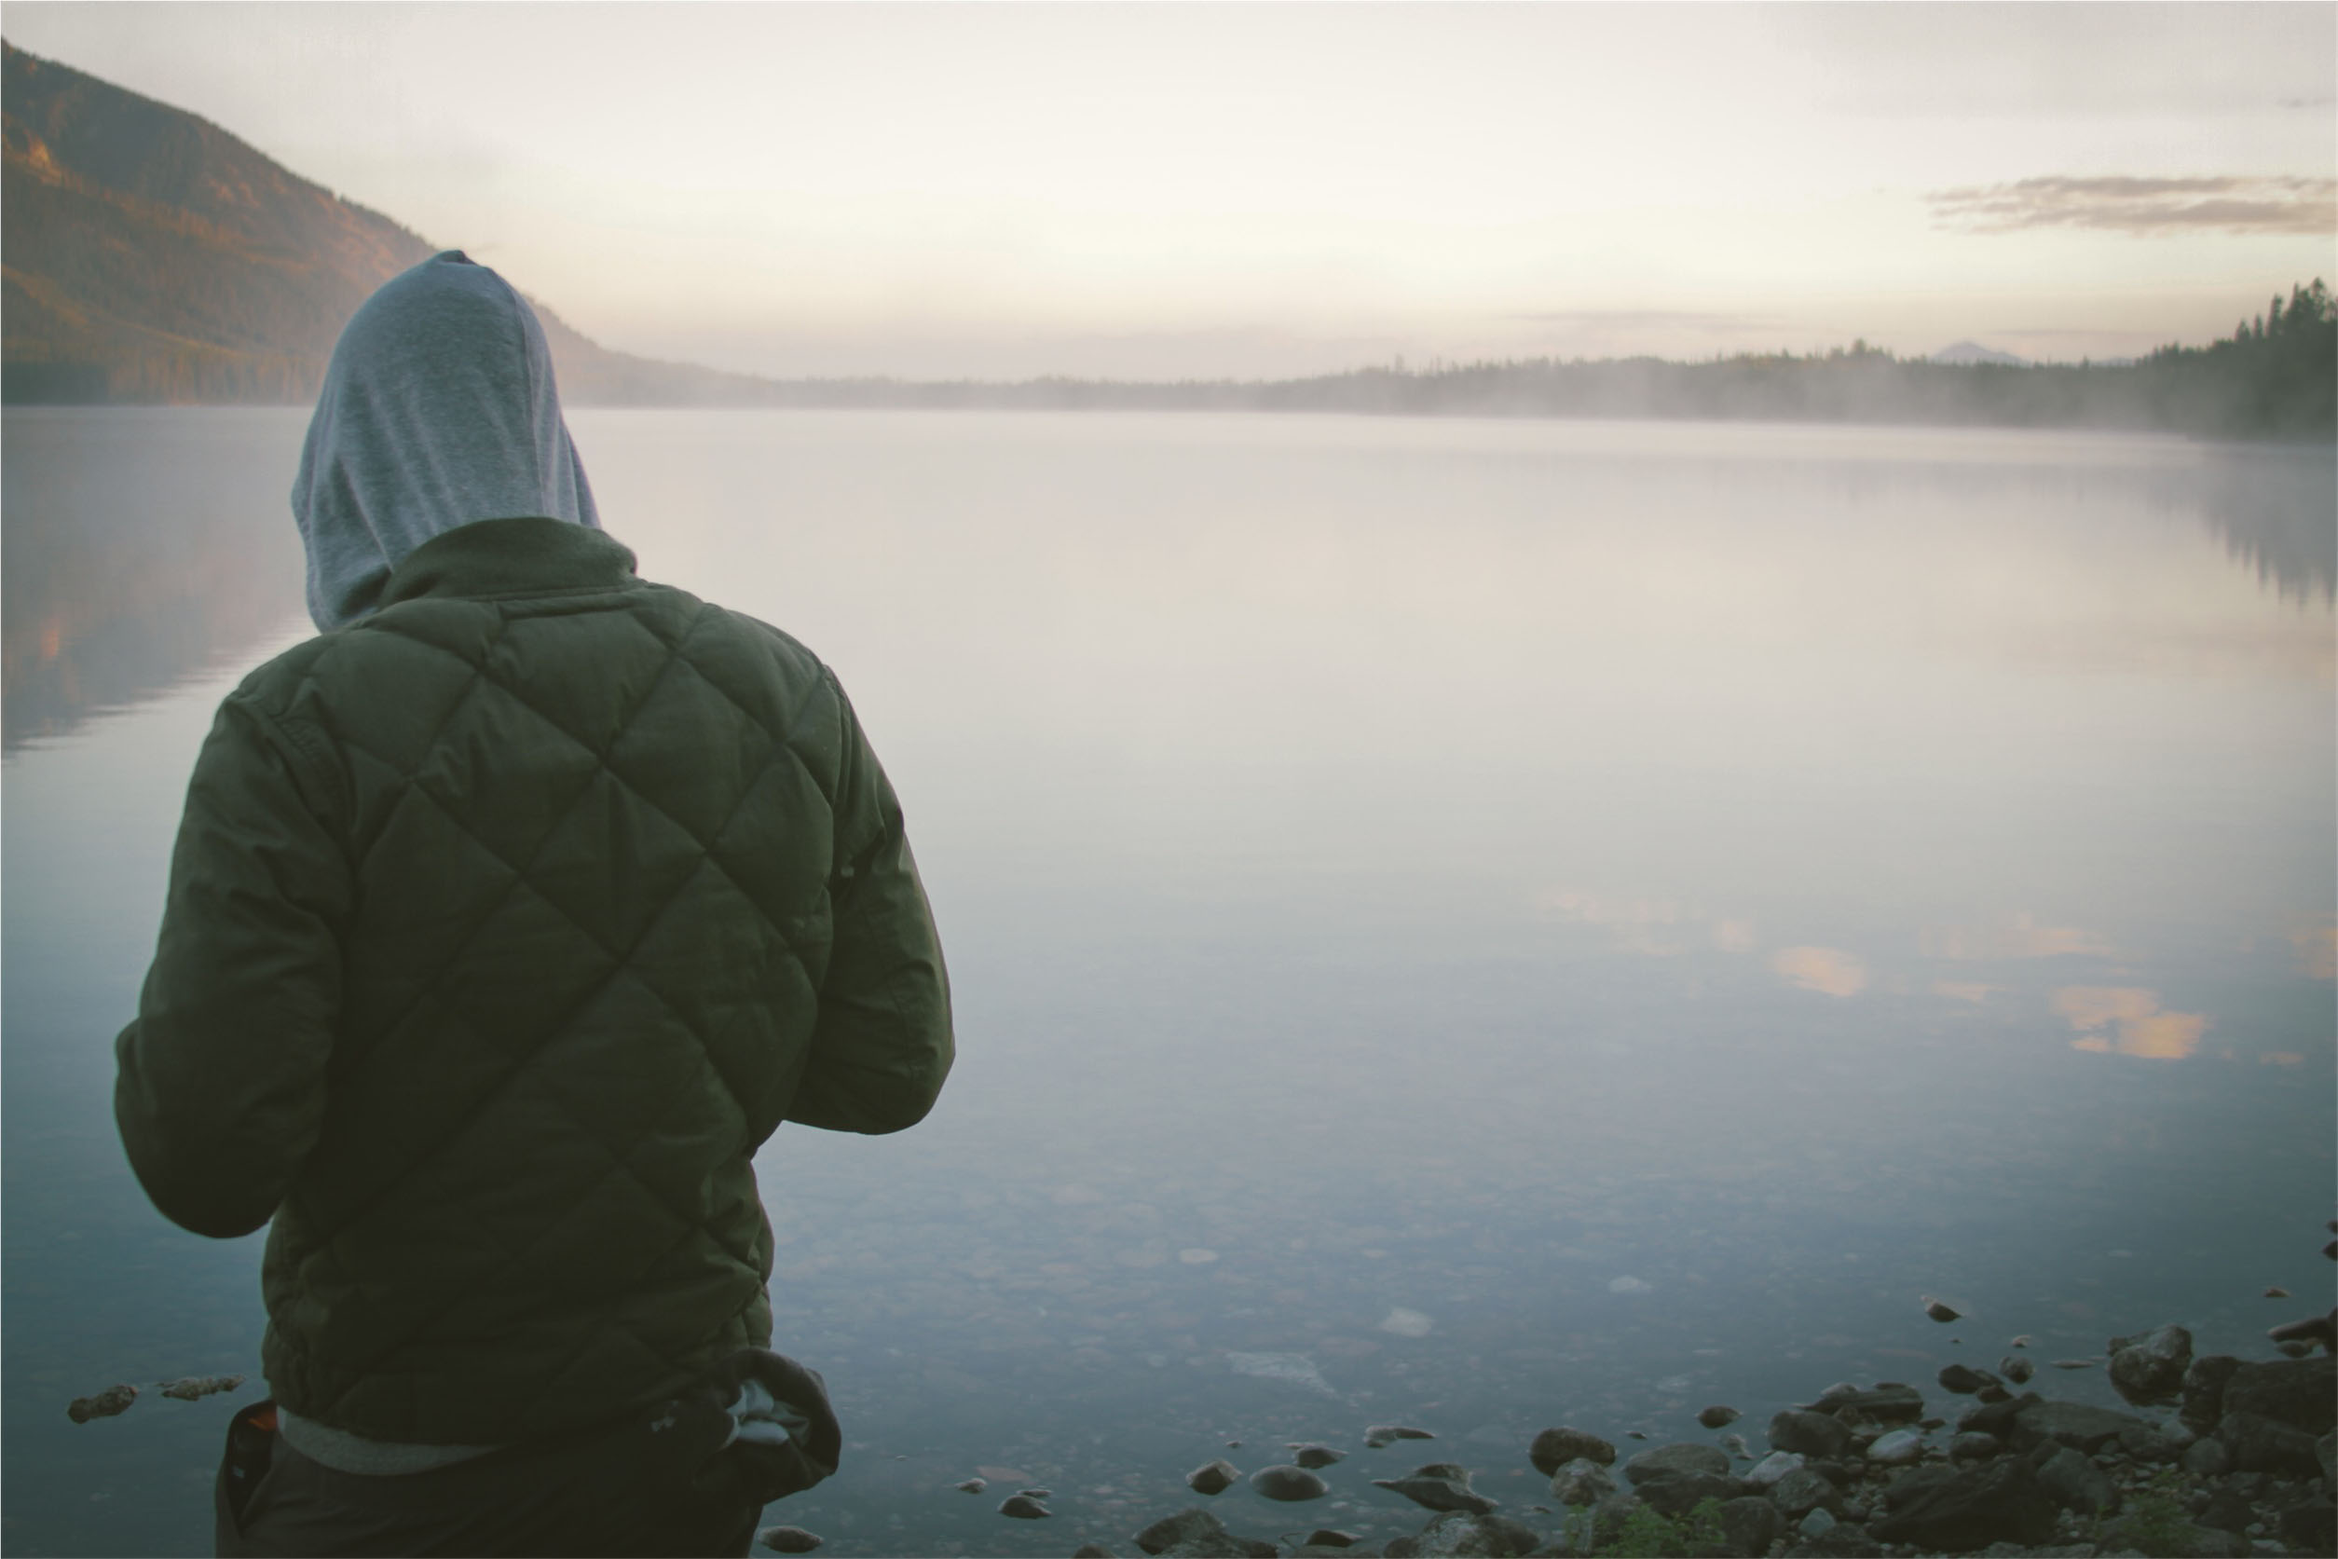
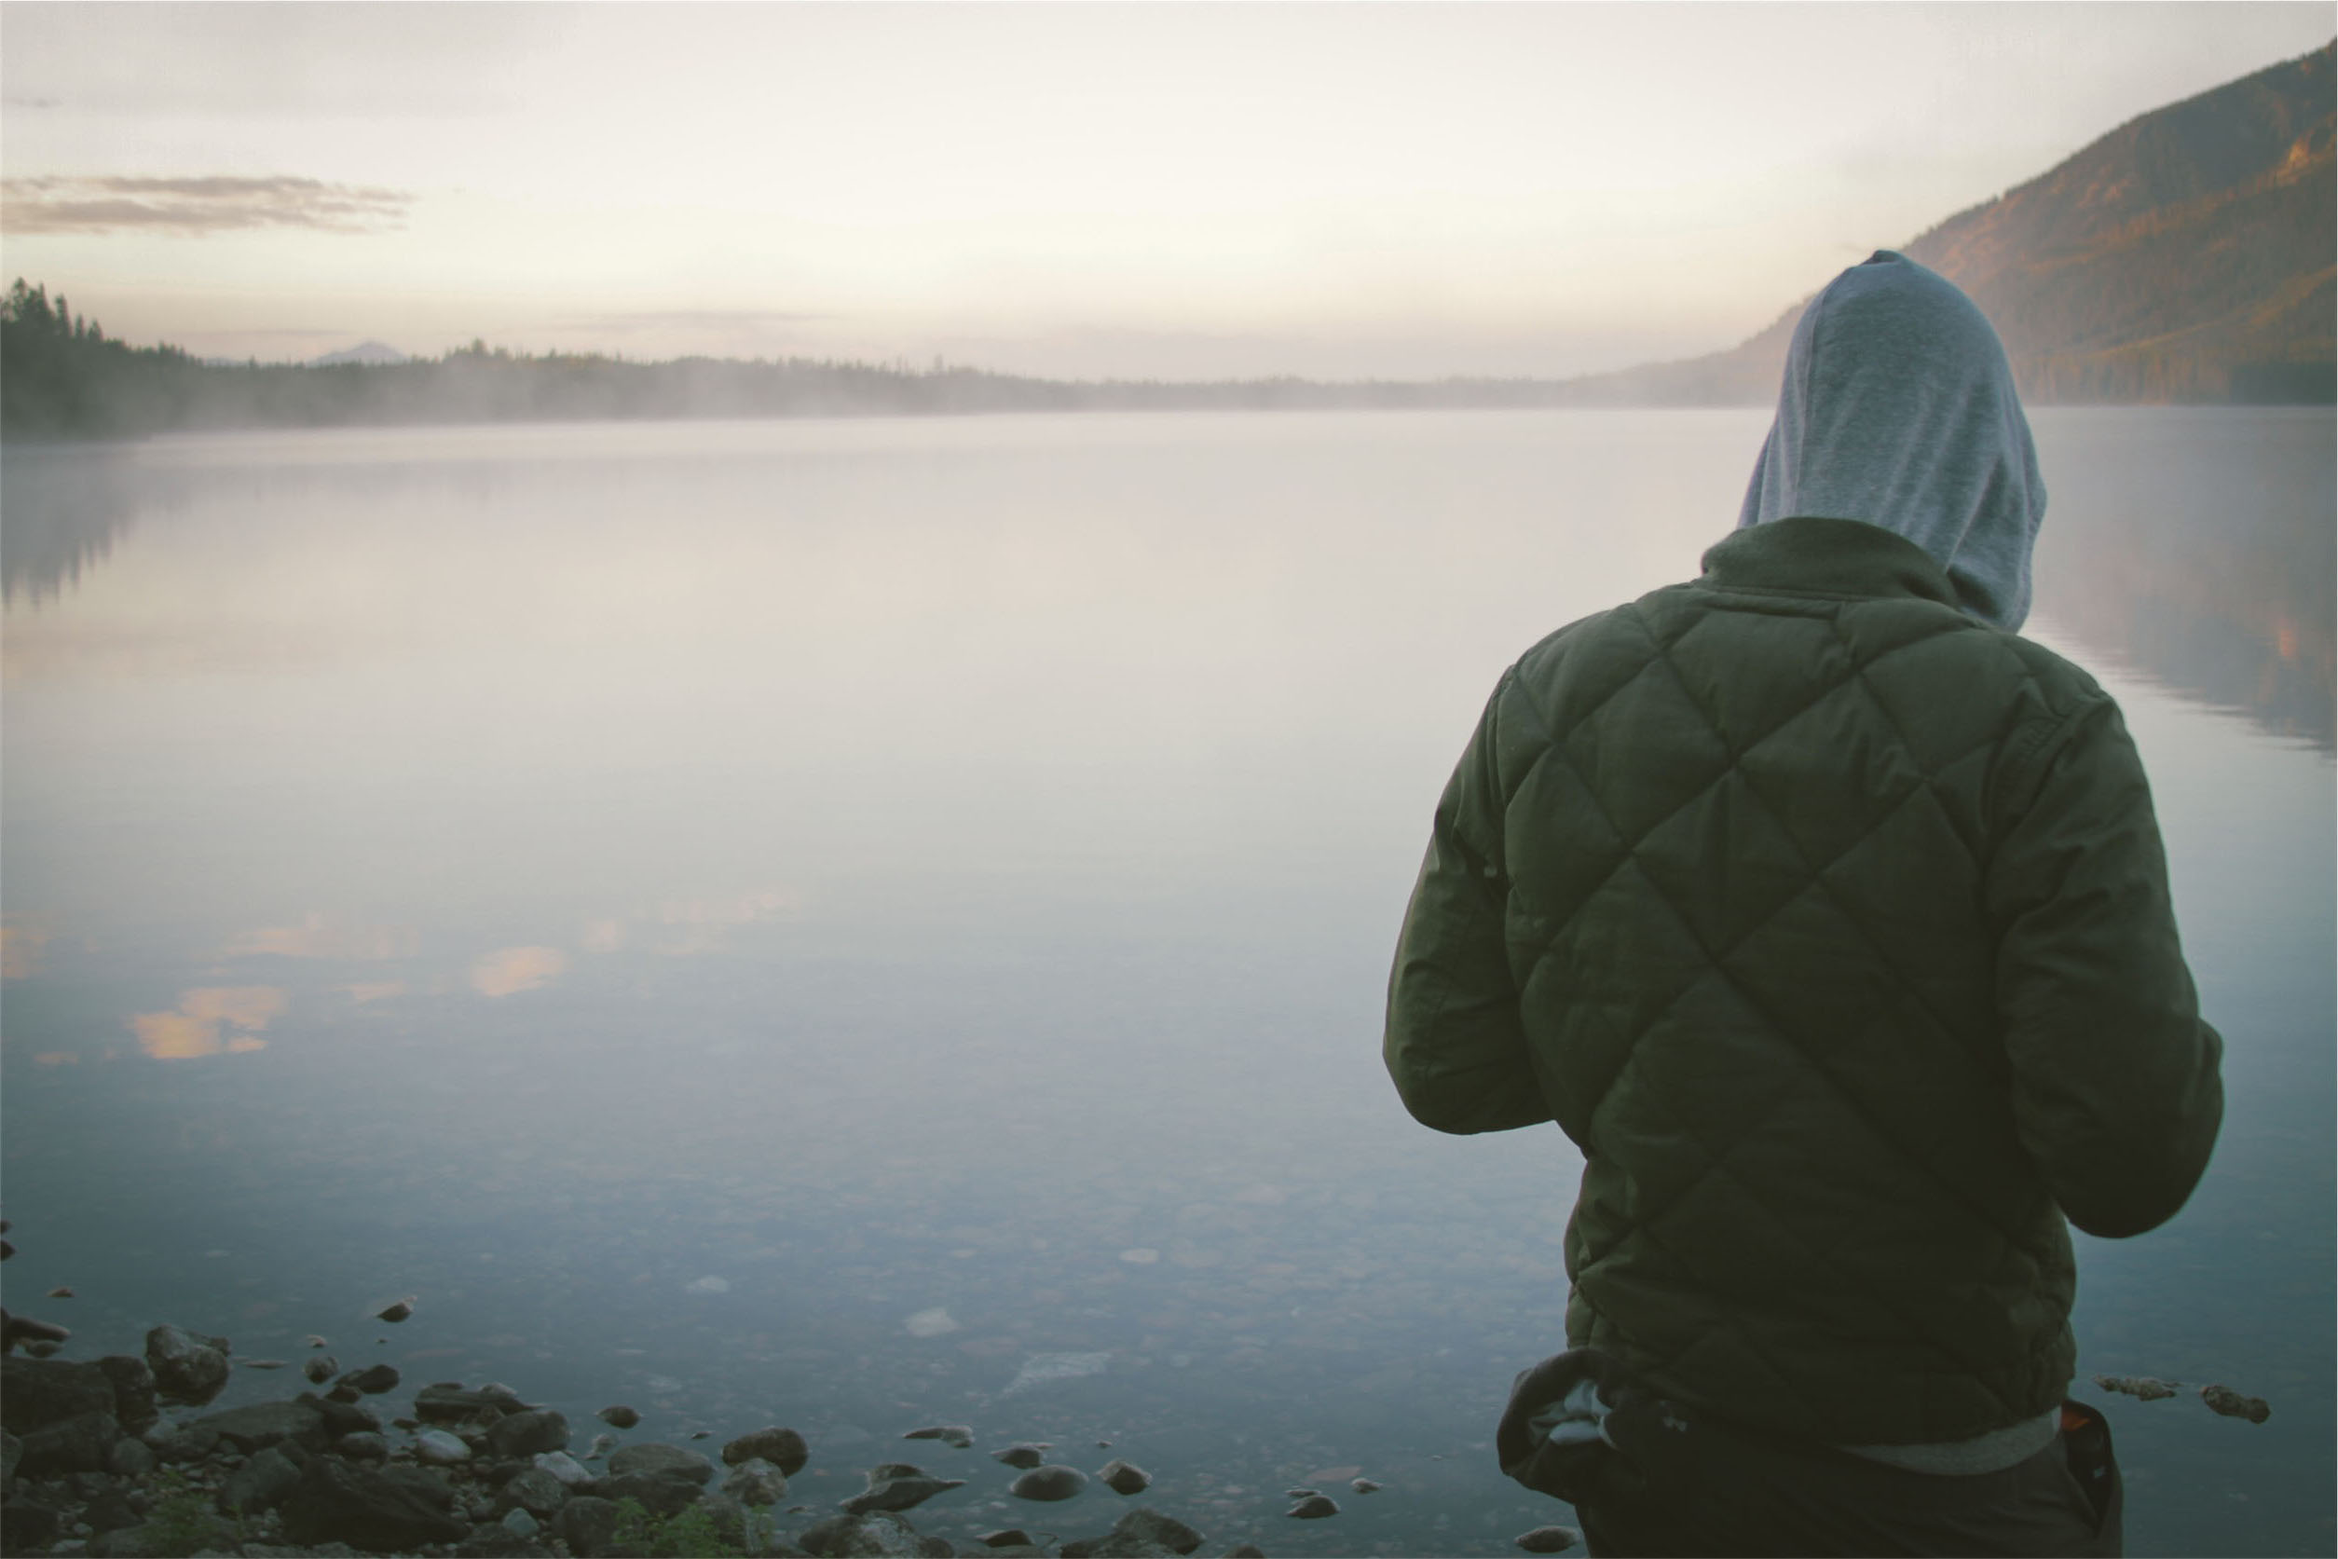
Twicked background images on homepage for mobile devices

diff --git a/css/index.css b/css/index.css
@@ -70,10 +70,12 @@ main {
 
 .women {
   background-image: url(../images/homepage/women-jackets.jpg);
+  background-position: left;
 }
 
 .men {
   background-image: url(../images/homepage/men-jackets.jpg);
+  background-position: right;
 }
 
 .women,
